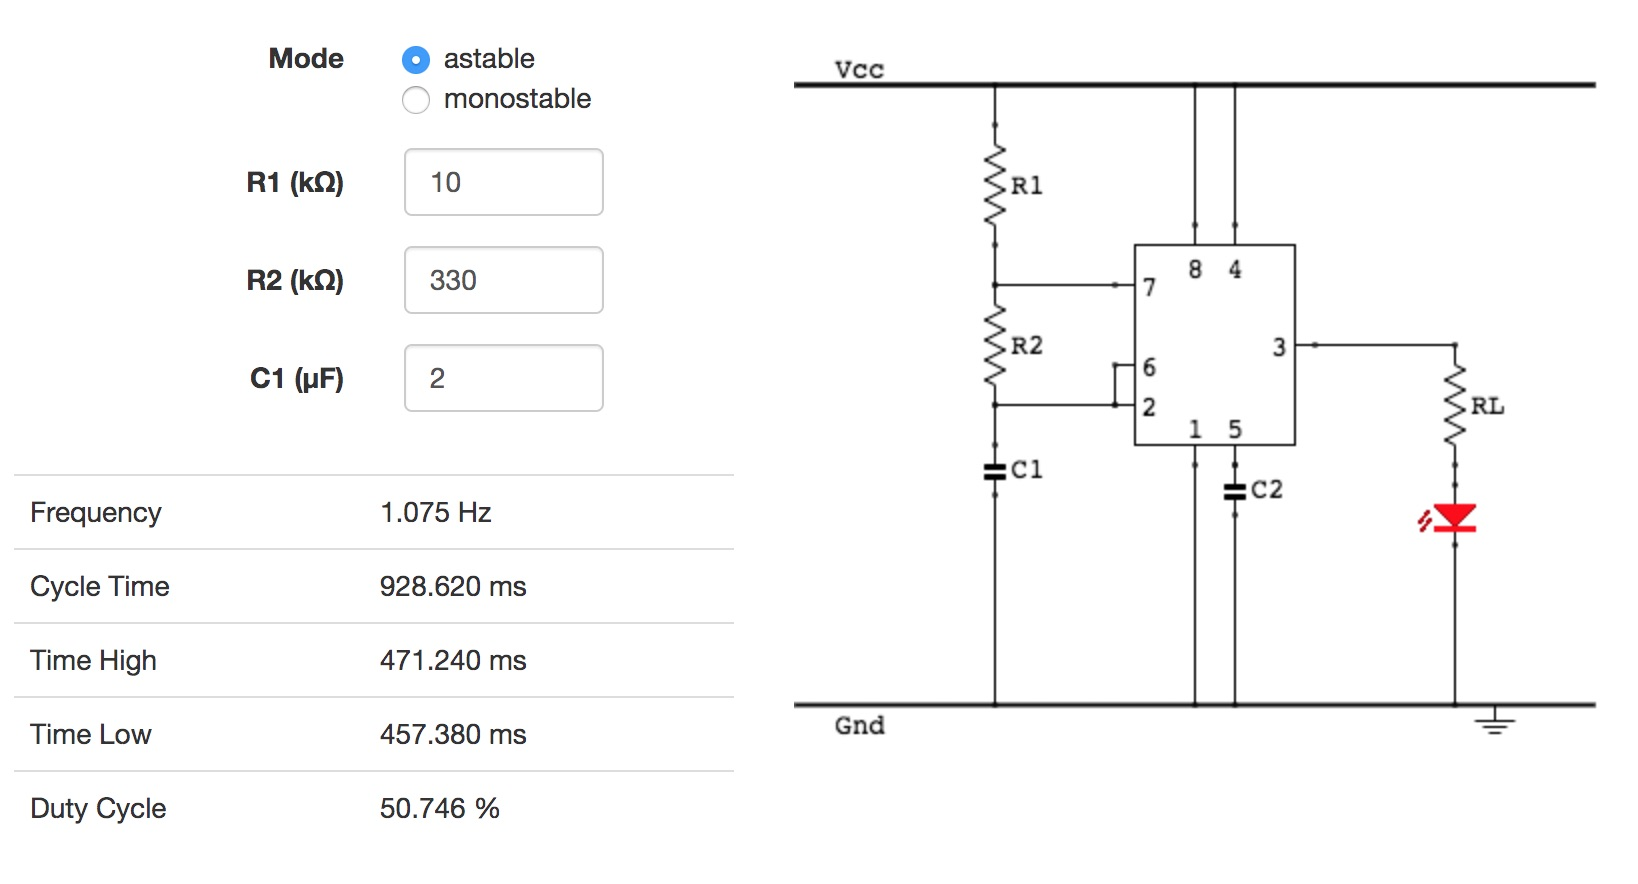
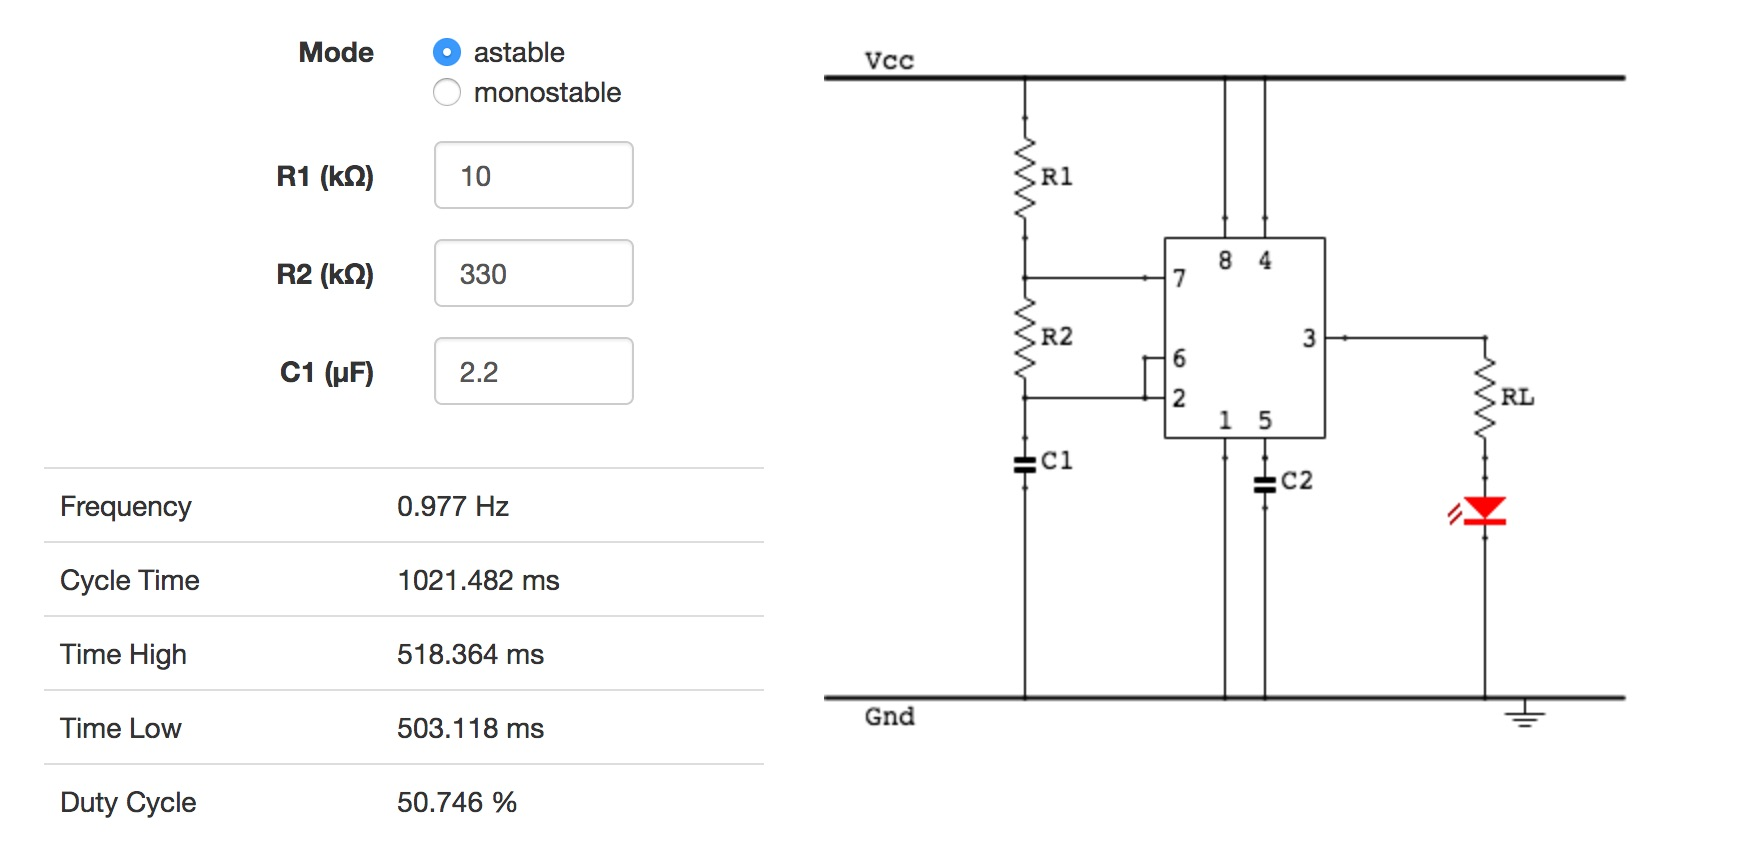
[pcbmode] update with board build

diff --git a/BoldportClub/pcbmode/README.md b/BoldportClub/pcbmode/README.md
@@ -152,10 +152,10 @@ compatible with the current PCBmodE software. In particular, it seems the shapes
 ### A Simple Circuit
 
 For a simple tutorial, I'm building a standard astable 555 timer circuit with an LED on the output.
-The circuit will flash at [1Hz](https://visual555.tardate.com/?r1=10&r2=330&c=2)
-with R1=10kΩ, R2=330kΩ, C1=2µF.
+The circuit will flash at about [1Hz](https://visual555.tardate.com/?mode=astable&r1=10&r2=330&c=2.2)
+with R1=10kΩ, R2=330kΩ, C1=2.2µF.
 
-[![PCBmodEBlinky_schematic](./assets/PCBmodEBlinky_schematic.jpg?raw=true)](https://visual555.tardate.com/?r1=10&r2=330&c=2)
+[![PCBmodEBlinky_schematic](./assets/PCBmodEBlinky_schematic.jpg?raw=true)](https://visual555.tardate.com/?mode=astable&r1=10&r2=330&c=2.2)
 
 ### Bootstrap with PCBmodEZero
 
@@ -198,7 +198,7 @@ To finalise the board, I used the standard hand-crafted PCBmodE flow:
 After a few iterations, I had a design that was at least electrically complete and
 demonstrates a few of the boldport hallmarks such as wiggly traces and irregular outlines:
 
-![pcbmode_build](./assets/pcbmode_build.jpg?raw=true)
+![PCBmodEBlinky_in_inkscape](./assets/PCBmodEBlinky_in_inkscape.jpg?raw=true)
 
 ### Generating Production Files
 
@@ -213,12 +213,35 @@ The project can be [found here on OSHpark](https://oshpark.com/shared_projects/f
 
 [![PCBmodEBlinky_pcb](./assets/PCBmodEBlinky_pcb.jpg?raw=true)](https://oshpark.com/shared_projects/fpZXhap7)
 
-TODO: update after the boards have been delivered and I've tried them out;-)
+UPDATE: the boards have arrived thanks to some speedy shipping from OSHPark. Electrically, they check out perfectly..
+
+![PCBmodEBlinky_pcb_delivery](./assets/PCBmodEBlinky_pcb_delivery.jpg?raw=true)
+
+I built all three of the boards and decided to mount them on a little wire sculpture and a 9V battery adapter.
+
+The actual components I used:
+
+| Part | Description    |
+|------|----------------|
+| R1   | 10kΩ           |
+| R2   | 330kΩ          |
+| C1   | 2.2µF          |
+| C2   | 100nF          |
+| IC1  | NE555          |
+| LED1 | 3mm orange LED |
+
+![build_complete_front](./assets/build_complete_front.jpg?raw=true)
+
+![build_complete_rear](./assets/build_complete_rear.jpg?raw=true)
+
+Here's a quick demo of the boards in action..
+
+[![clip](https://img.youtube.com/vi/oPgU24y_iwU/0.jpg)](https://www.youtube.com/watch?v=oPgU24y_iwU)
 
 ## Conclusions
 
-I am still waiting for my first PCBmodE boards to arrive from OSHpark, so I don't know if I've even been able to produce
-something that works - hardly an expert yet. But some observations on the PCBmodE design process so far:
+Well, my first PCBmodE boards turned out just fine, at least I was able to produce
+something that works - hardly an expert yet. Some observations on the PCBmodE design process so far:
 
 * once one has all the components roughly laid out, designing in inkscape is wonderfully freeing compared to traditional EDA tools
 * but the process for feeding changes back into the board design is a bit laborious - unless one is disciplined I can image it easily becoming a hot mess
@@ -231,7 +254,7 @@ So far my bottom line: this is a really liberating way to build boards, especial
 I can't help thinking that improvements in tooling (especially WYSIWYG component selection and automated feedback of design changes)
 would make for something really powerful that I'd want to use for even *regular* designs.
 
-More comments perhaps once I've got my first PCBmodE boards back, and done another design or two..
+More comments perhaps once I've done another design or two..
 
 ## Credits and References
 
